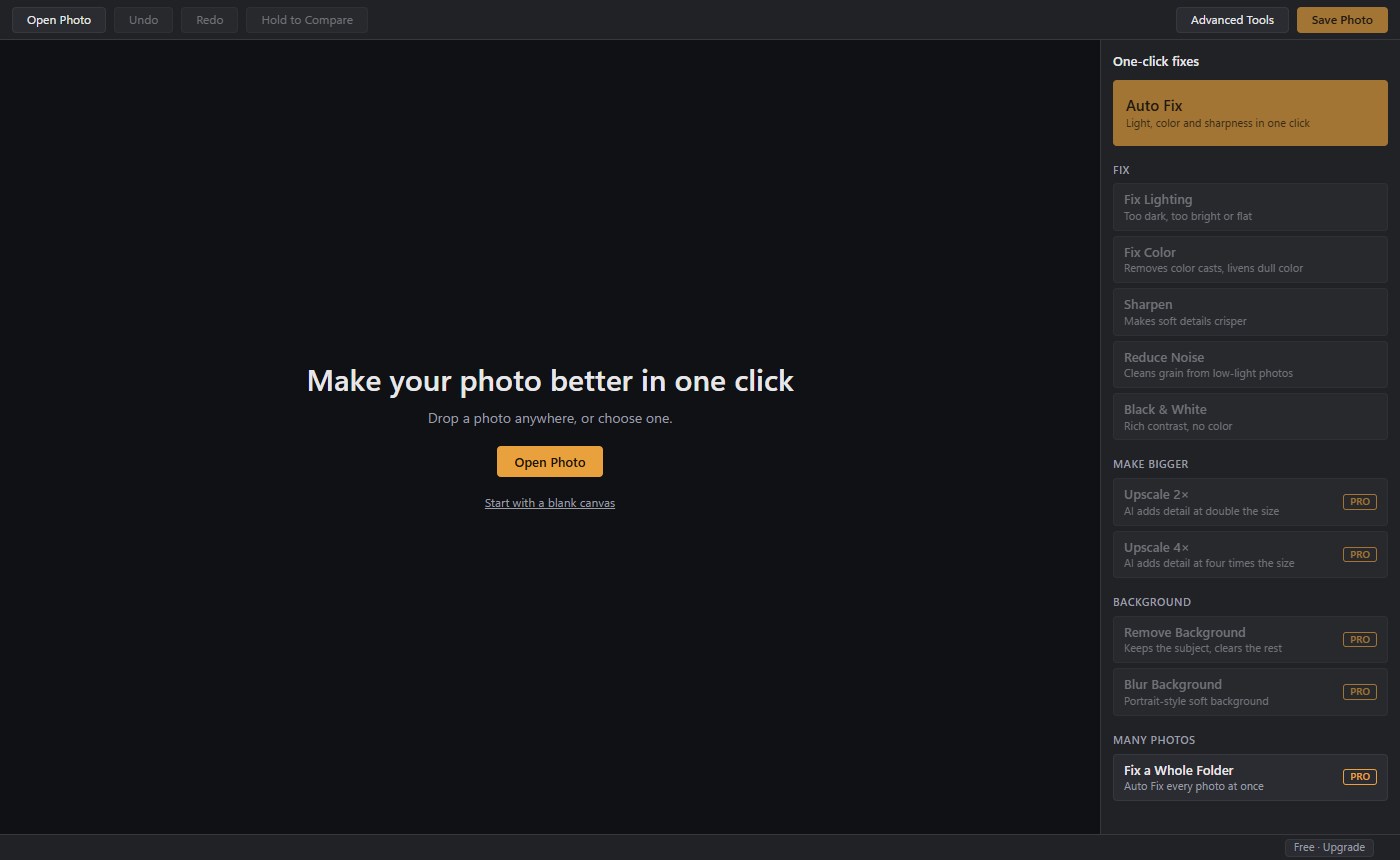
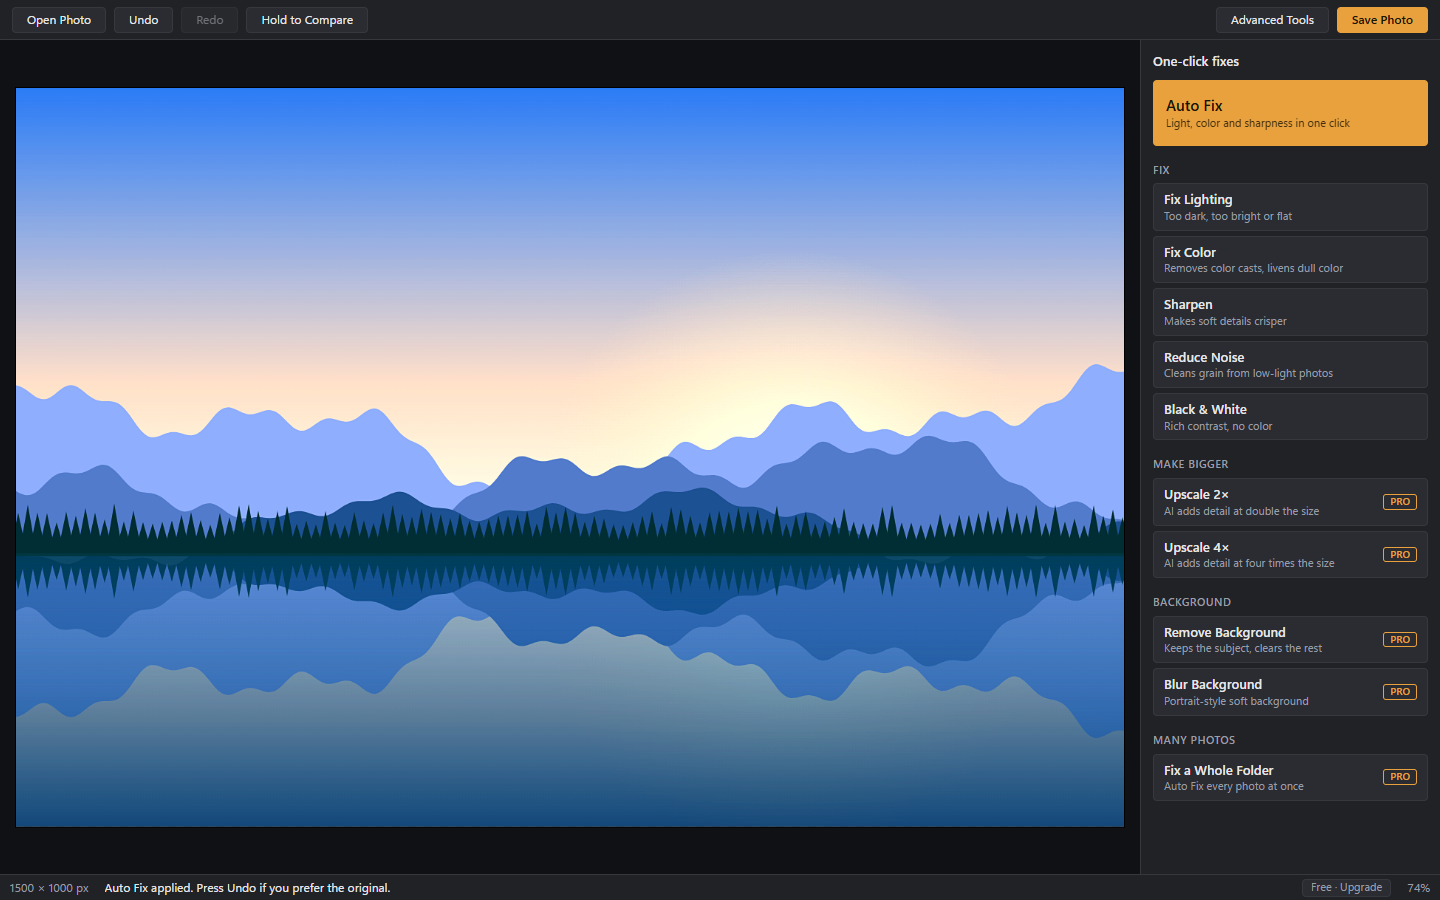
Show Facet in action with product screenshot galleries

diff --git a/index.html b/index.html
@@ -22,6 +22,7 @@
     <div class="wrap">
       <a class="brand" href="#top"><img src="icon.png" alt="" width="32" height="32">Facet<span class="brand-by">by Prosper Technologies</span></a>
       <nav aria-label="Page sections">
+        <a href="#gallery">Screenshots</a>
         <a href="#how">How it works</a>
         <a href="#pricing">Pricing</a>
         <a href="#questions">Questions</a>
@@ -44,7 +45,7 @@
       </div>
       <div class="hero-art" aria-label="Facet product preview">
         <div class="art-heading"><span>THE EVERYDAY PHOTO EDITOR</span><span>01 / FACET</span></div>
-        <div class="preview-frame"><img class="shot" src="facet-app.png" width="1400" height="860" alt="Facet's Windows interface with Auto Fix, lighting, color and sharpening tools beside the photo workspace."></div>
+        <div class="preview-frame"><img class="shot" src="facet-app.png" width="1440" height="900" alt="Facet showing a colorful lake illustration after Auto Fix, with one-click editing tools on the right."></div>
         <div class="art-caption"><span class="caption-mark" aria-hidden="true">✳</span><p>Less time at the controls.<br><strong>More room for your creativity.</strong></p><span class="local-badge">Made for your PC</span></div>
       </div>
     </div>
@@ -61,6 +62,15 @@
         </ol>
       </div>
     </section>
+
+    <section id="gallery" class="gallery"><div class="wrap">
+      <div class="section-heading"><p class="eyebrow">A CLOSER LOOK</p><h2>Simple fixes.<br>More possibilities.</h2><p class="section-intro">Explore Facet’s editing workspaces. These app captures use sample illustrations. Select any screenshot to see it at full size.</p></div>
+      <div class="gallery-grid">
+<figure><a href="screenshots/1-before.png" aria-label="View full-size screenshot: Before Auto Fix"><img src="screenshots/1-before.png" width="1440" height="900" loading="lazy" decoding="async" alt="An unedited sample illustration, ready for a one-click lighting and color fix."></a><figcaption><h3>Before Auto Fix</h3><p>An unedited sample illustration, ready for a one-click lighting and color fix.</p></figcaption></figure>
+<figure><a href="screenshots/2-auto-fix.png" aria-label="View full-size screenshot: After Auto Fix"><img src="screenshots/2-auto-fix.png" width="1440" height="900" loading="lazy" decoding="async" alt="The same illustration after Facet’s Auto Fix adjusts light, color and sharpness."></a><figcaption><h3>After Auto Fix</h3><p>The same illustration after Facet’s Auto Fix adjusts light, color and sharpness.</p></figcaption></figure>
+<figure><a href="screenshots/3-remove-background.png" aria-label="View full-size screenshot: Background removal · Pro"><img src="screenshots/3-remove-background.png" width="1440" height="900" loading="lazy" decoding="async" alt="A sample mug illustration with its background removed, shown over the transparency grid."></a><figcaption><h3>Background removal · Pro</h3><p>A sample mug illustration with its background removed, shown over the transparency grid.</p></figcaption></figure>
+<figure><a href="screenshots/4-advanced-tools.png" aria-label="View full-size screenshot: Room to go further"><img src="screenshots/4-advanced-tools.png" width="1440" height="900" loading="lazy" decoding="async" alt="The advanced workspace with brushes, layers and edit history."></a><figcaption><h3>Room to go further</h3><p>The advanced workspace with brushes, layers and edit history.</p></figcaption></figure>
+</div></div></section>
 
     <section id="pricing">
       <div class="wrap">

diff --git a/styles.css b/styles.css
@@ -3,3 +3,5 @@
 @media(min-width:1400px){.hero{gap:65px}}@media(max-width:900px){.wrap{padding-inline:24px}.hero{gap:28px}h1{letter-spacing:-2.5px}.hero-art{padding:18px 14px}.local-badge{display:none}nav{gap:16px}.brand-by{display:none}.actions{gap:18px}.trust-strip .wrap{justify-content:center}.art-heading{letter-spacing:.7px}section{padding:64px 0}}@media(max-width:650px){header .wrap{min-height:80px}nav a:not(.nav-download){display:none}.hero{grid-template-columns:1fr;padding-block:48px;gap:40px}h1{font-size:58px}.hero-art{max-width:500px;transform:none}.art-heading{font-size:10px}.local-badge{display:block}.trust-strip .wrap{gap:12px 24px}.trust-strip span{width:100%;text-align:center}.steps,.plans{grid-template-columns:1fr}.steps{gap:28px}.steps li:before{margin-bottom:14px}.steps p{max-width:none}.plan{padding:26px}.footer-top{flex-wrap:wrap;gap:16px}.footer-top p{flex-basis:60%;margin:0}.section-heading{margin-bottom:30px}.privacy-main h1{font-size:40px}}@media(prefers-reduced-motion:reduce){html{scroll-behavior:auto}.button{transition:none}}
 
 .hero > *{min-width:0}@media(max-width:650px){h1{font-size:clamp(42px,12vw,58px)}.hero-art{width:100%}.art-heading{font-size:8px}.local-badge{font-size:8px}.art-caption{gap:8px}}
+
+.gallery{border-top:1px solid var(--line)}.gallery-grid{display:grid;grid-template-columns:repeat(2,minmax(0,1fr));gap:32px}.gallery figure{margin:0;min-width:0}.gallery figure>a{display:block;border:1px solid #394132;border-radius:12px;overflow:hidden;background:var(--dark)}.gallery img{display:block;width:100%;height:auto}.gallery figcaption{padding:18px 0 0}.gallery h3{font-size:19px}.gallery figcaption p{margin:0;color:var(--muted);font-size:14px;max-width:480px}@media(max-width:900px){nav{gap:14px}}@media(max-width:650px){.gallery-grid{grid-template-columns:1fr}}

diff --git a/README.md b/README.md
@@ -34,6 +34,26 @@ Fix light, color and sharpness while your photos stay on your PC.
 
 Pro subscriptions and license keys are handled by [Gumroad](https://prospertechnology.gumroad.com/l/facet-pro).
 
+## See Facet in action
+
+App screenshots using sample illustrations:
+
+### Before Auto Fix
+
+![Before Auto Fix](screenshots/1-before.png)
+
+### After Auto Fix
+
+![After Auto Fix](screenshots/2-auto-fix.png)
+
+### Background removal · Pro
+
+![Background removal · Pro](screenshots/3-remove-background.png)
+
+### Room to go further
+
+![Room to go further](screenshots/4-advanced-tools.png)
+
 ## Download & install
 
 Get the Windows installer from [the latest release](https://github.com/ProsperTechnology/facet/releases/latest). Facet supports **Windows 10 and Windows 11**. No account is needed for free editing.
